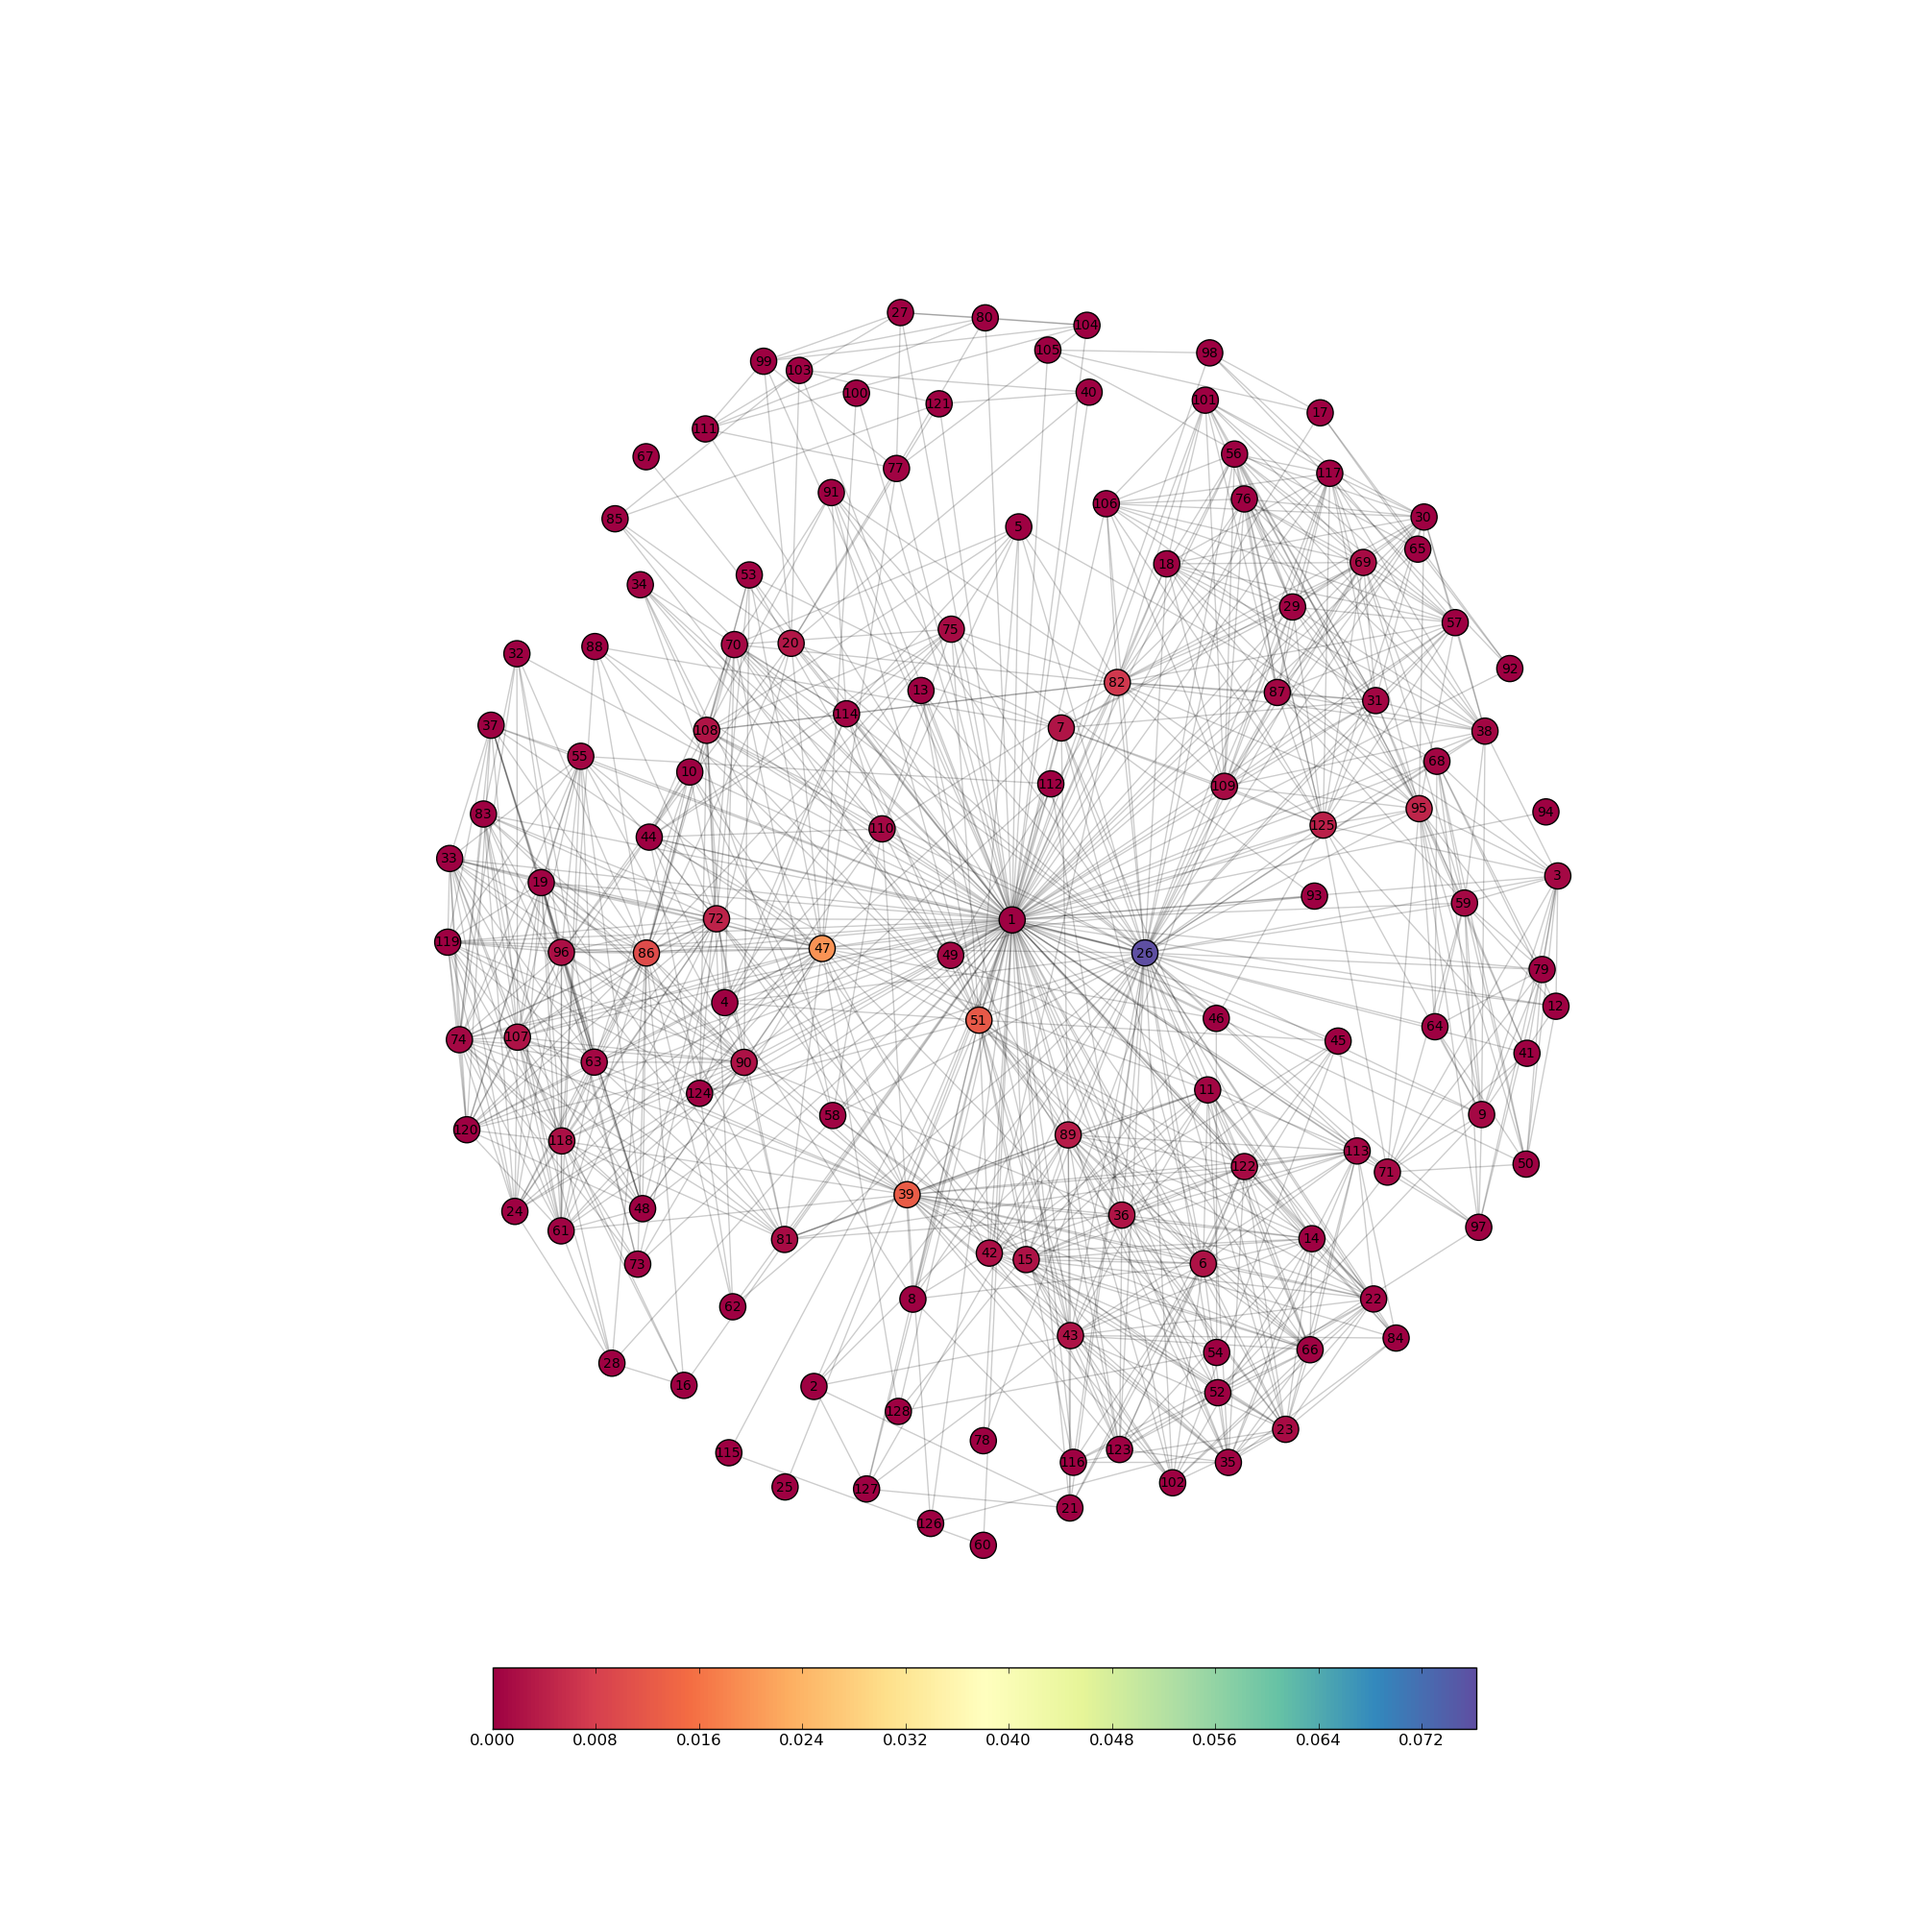
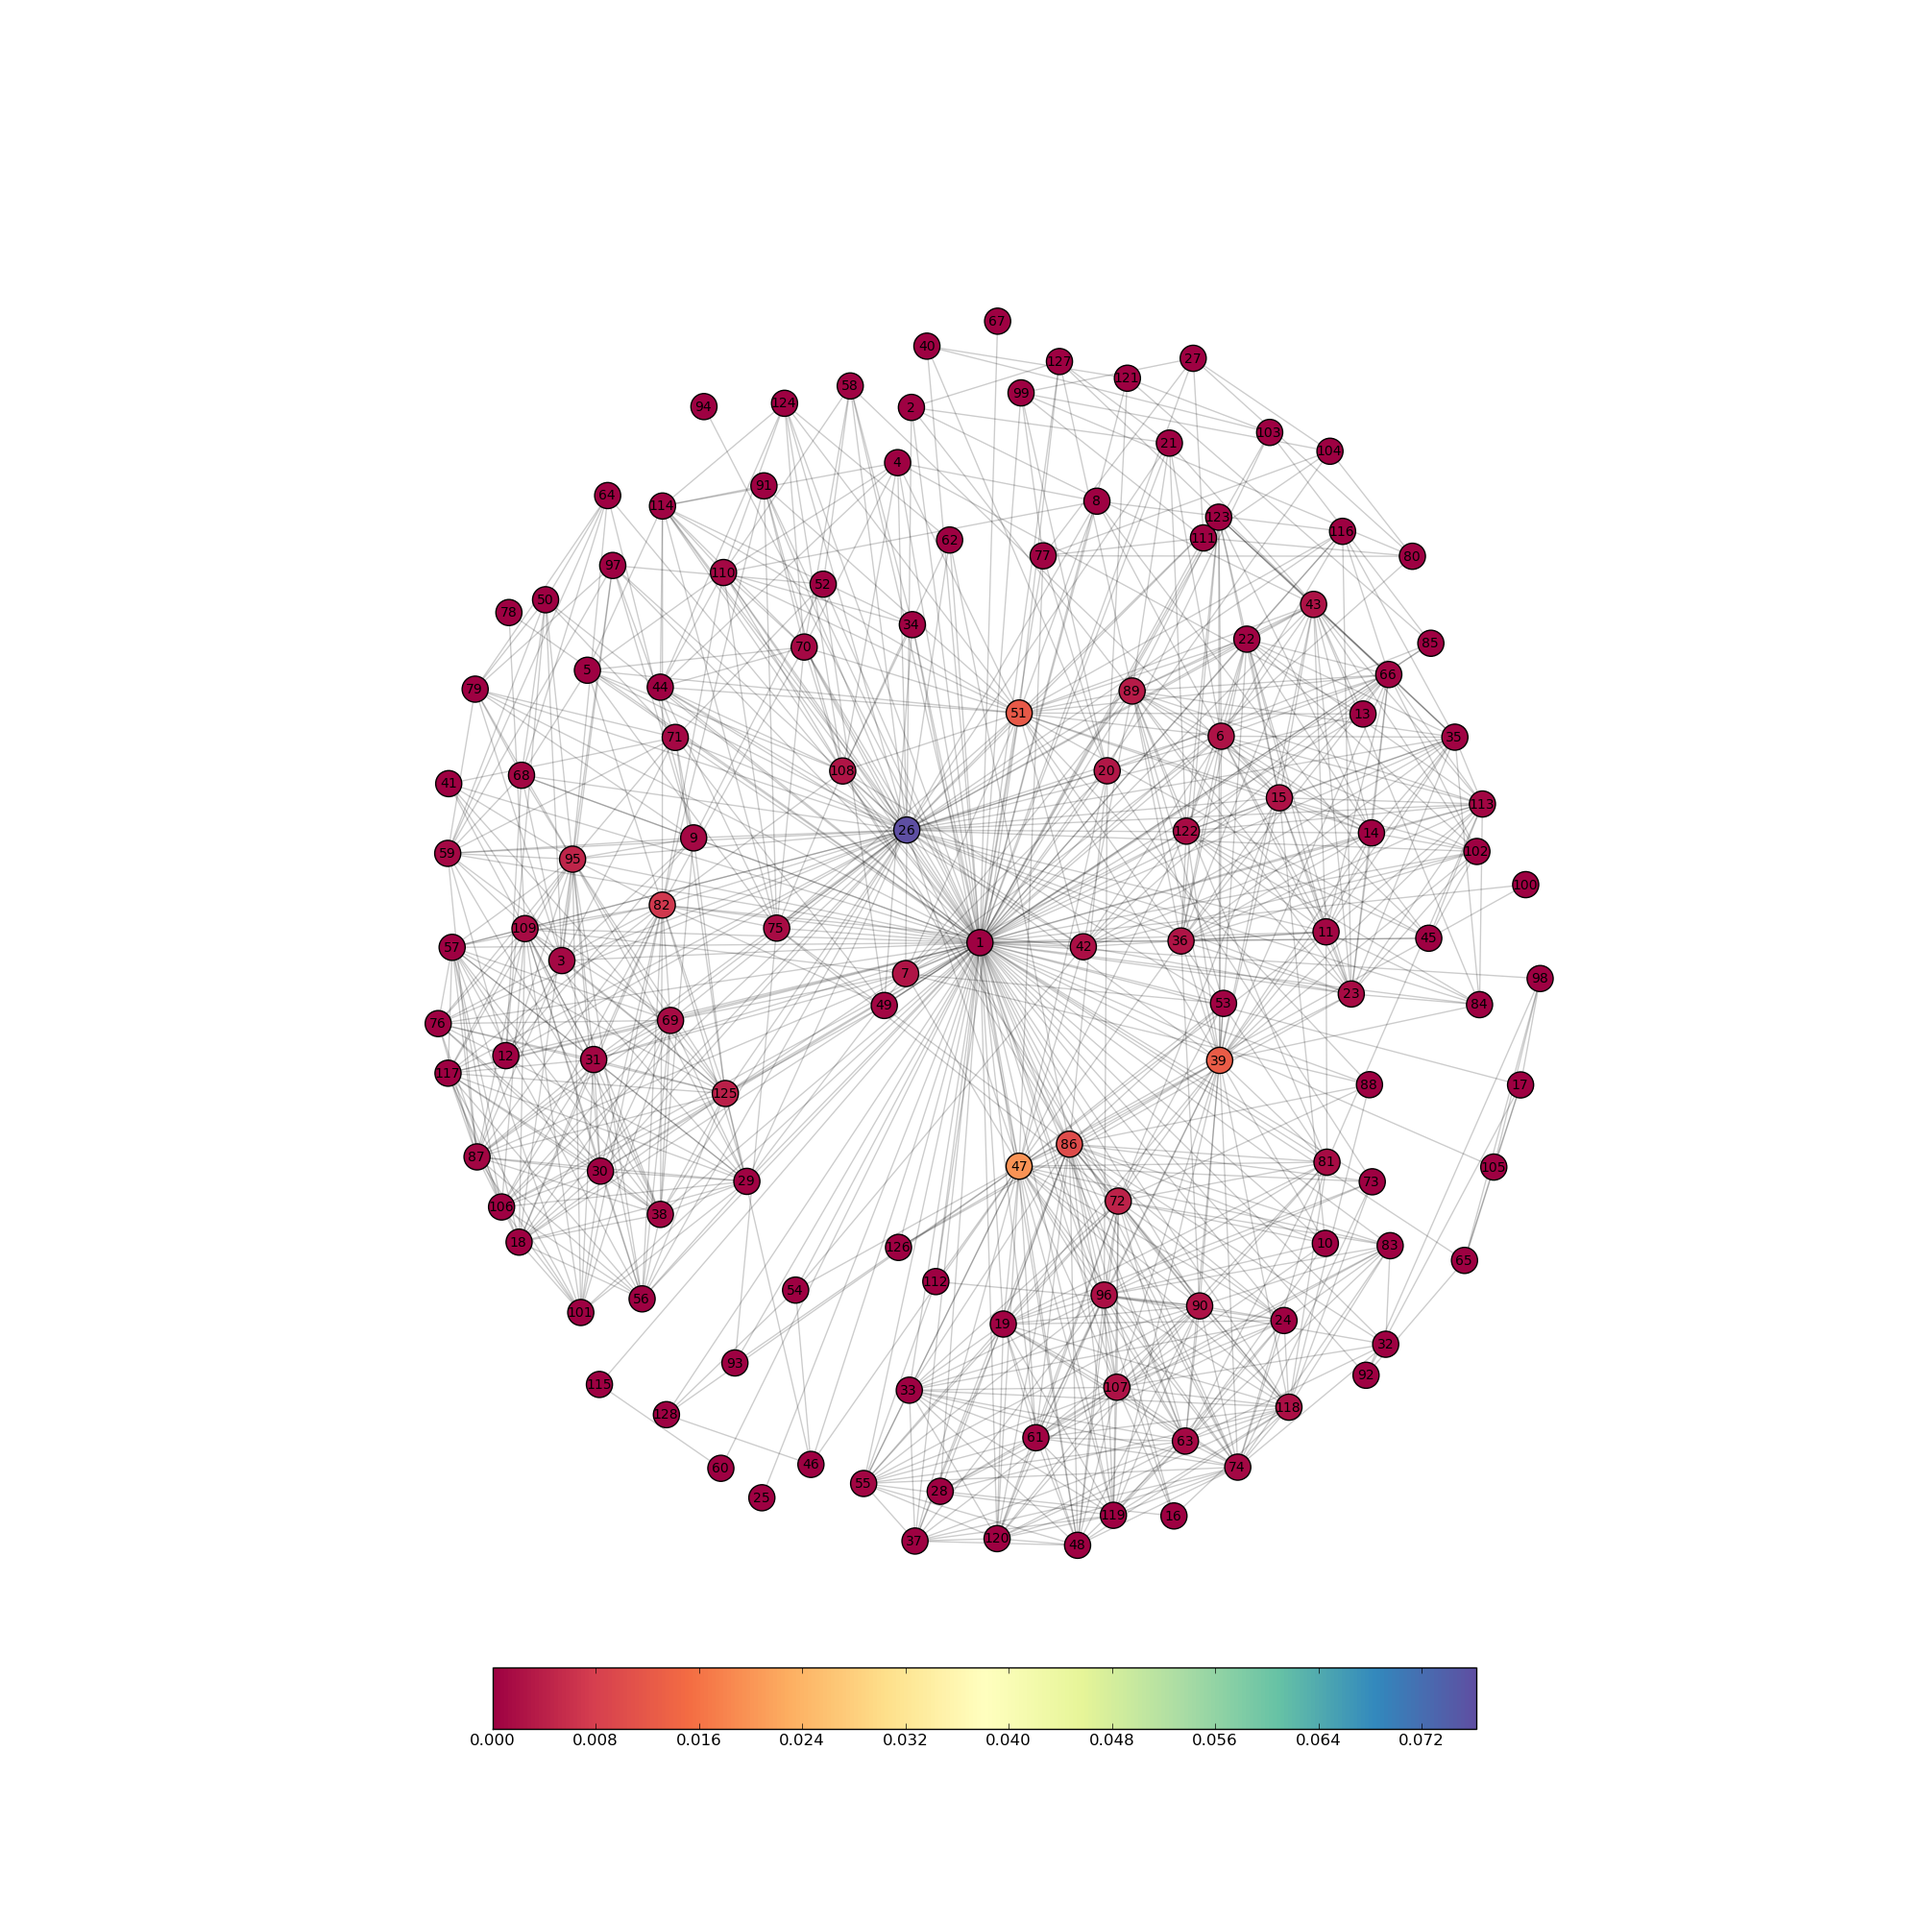
clustering measure

Changed region(s): [[0.217, 0.155, 0.837, 0.806]]

diff --git a/src/thesis/fb.py b/src/thesis/fb.py
@@ -10,6 +10,14 @@ FB_APP_ID = "152284658119481"
 FB_CODE = "917aefd01a1c2bac3e1d478f-1244349170|NSedJegWuBgi7ZcFk77WmWQgL8g"
 TOKEN = "152284658119481|917aefd01a1c2bac3e1d478f-1244349170|oejQMHFngbBNJCdGUXFfmkE9ZJo"
 
+handPartition = [[100000648559579, 100000568166299, 1083970911, 100001151564860, 100000650966699], # awf 
+                 [100000865749997, 100000028449750, 100001045601749, 100000243669458, 100000081887173, 1162622890, 1547725220, 100000416738692, 766967667, 100000548456815, 1054225249, 1796057946, 0, 1812844057, 100000796855344, 100000251476023, 670774349, 100000195247193, 574613122, 100000177233035, 100000950045344, 100001401545390, 1563941552, 100000072241347, 100000665913030, 1579834588, 100000115366354, 100000875089655, 1605019392, 100000072977670, 1682210082, 1255764264, 100000223015724, 1130027485], # studia
+                 [1456110848, 682314702, 906415022, 100000675199851, 1361434456, 100000511275520, 1500674056, 1341281293, 100000559244304, 1283026463, 1251644963, 1423307828, 100000978972259, 100000359074423, 1145690747, 543900798, 1458353825, 100000500574893, 1218227920, 730325234, 652673267, 100000786148478, 100000844134666, 1374489875, 1438635288, 1334643932, 1674574646], # gim
+                 [1177760162, 100000077028249, 100000395817861, 1476711297, 1032966662, 100001240417302, 100000555727570, 100000822290649, 1298798324, 100000159406372, 1779769892], # podstawowka
+                 [1436550136, 100001392610551, 100000575211956, 1198502305, 100000943723935, 1040476565, 100000717948818, 100000036955024, 1069035901, 100000050158456, 100000522020215, 1621747250, 1535572062, 100000577456753, 100000761276531, 100000626047119, 100000204317377, 711597283, 100001159501558, 1541512459, 704756495, 1341833543, 100000070382409, 100000586940753], # inni 
+                 [100000570911217, 100000241461744, 100000774974437, 1589262813, 1545300898, 100000316434882, 1223122879, 1685006257, 1393333145, 1810313588, 806459762, 100000534391132, 100000916441102, 1196611093, 100000242988059, 1663011364, 1475919878, 1527991374, 100000269880914, 1561663125, 100000237510295, 100000106189989, 1427656367, 1555223217, 1665207509, 1142665486, 100000092777302], # liceum
+                 ] 
+
 
 class Facebooker:
     
@@ -77,10 +85,9 @@ class Facebooker:
         with open(filename, 'rb') as file:
             self.centrality = pickle.load(file)
             
-    def graphMeasure(self, measure = 'degree'):
+    def graphMeasure(self, measure = 'degree', anonymized_log = False):
         measureValues = self.centrality[measure]
         
-       
         
         filename = measure + ".png"
         
@@ -90,9 +97,12 @@ class Facebooker:
             nodesDict[node] = measureValues[node]
         sortedNodes = sorted(nodesDict, key=nodesDict.get, reverse = True)
         
-        logger.info(measure)
+        logger.info("******########*******" + measure + "******########*******")
         for node in sortedNodes:
-            logger.info(self.graph.node[node]['name'] +" (" + str(self.labels[node]) + "): " + str(nodesDict[node]))
+            if not anonymized_log:
+                logger.info(self.graph.node[node]['name'] +" (" + str(self.labels[node]) + "): " + str(nodesDict[node])) # z nazwiskami osob
+            else:
+                logger.info(str(self.labels[node]) + ": " + str(nodesDict[node])) # same numery
             # set my value to 0 for better colors
             if self.graph.node[node]['name'] == 'Marcin Mincer':
                 measureValues[node] = 0
@@ -161,9 +171,38 @@ class Facebooker:
         
         plt.savefig(filename)
         
+    
+    def ratePartition(self):
+        """ Metoda do oceny podziału sieci. Porównuje podział wykonany z wzrocowym i wyznacza procentową skuteczność podziału. 
+        """
+        result = 0
+        maximal_result = 0
         
+        for index, node in enumerate(self.graph.nodes()):
+            for groupNo in self.partition:
+                if node in groupNo:
+                    nodeComputedGroup = self.partition.index(groupNo)
+            for groupNo in handPartition:
+                if node in groupNo:
+                    nodeOriginalGroup = handPartition.index(groupNo)
                     
+            for secondNode in self.graph.nodes()[index+1:]:
+                for groupNo in self.partition:
+                    if secondNode in groupNo:
+                        secondNodeComputedGroup = self.partition.index(groupNo)
+                for groupNo in handPartition:
+                    if secondNode in groupNo:
+                        secondNodeOriginalGroup = handPartition.index(groupNo)
+                
+                if nodeOriginalGroup == secondNodeOriginalGroup:
+                    maximal_result += 1
+                if (nodeOriginalGroup == secondNodeOriginalGroup) and (nodeComputedGroup == secondNodeComputedGroup):
+                    result += 1
 
+        ret = float(result)/maximal_result * 100.0
+        logger.info("Jakość grupowania FB: " + str(ret) + "%")  
+        return ret
+        
 if __name__ == "__main__":
     fb = Facebooker()
 #    fb.fetchGraph()

diff --git a/src/main.py b/src/main.py
@@ -93,15 +93,16 @@ def fbExperiment():
     fb = Facebooker()
     fb.loadGraph()
 #    fb.partitionGraph()
-    fb.computeMeasures()
+#    fb.ratePartition()
+#    fb.computeMeasures()
     fb.loadMeasures()
-    fb.graphMeasure('clustering')
-    fb.graphMeasure('betweeness')
-    fb.graphMeasure('degree')
-    fb.graphMeasure('closeness')
-    fb.graphMeasure('eigenvector')
-    print fb.centrality['avg_clustering'] 
-    print fb.centrality['avg_shortest_path'] 
+    fb.graphMeasure('clustering', True)
+    fb.graphMeasure('betweeness', True)
+    fb.graphMeasure('degree', True)
+    fb.graphMeasure('closeness', True)
+    fb.graphMeasure('eigenvector', True)
+#    print fb.centrality['avg_clustering'] 
+#    print fb.centrality['avg_shortest_path'] 
         
     
 
